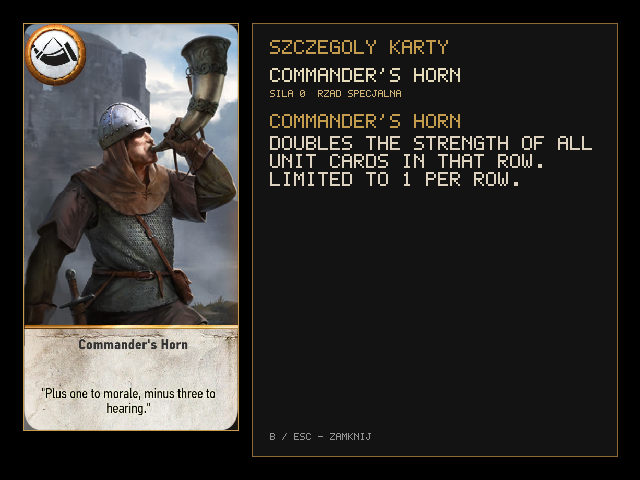
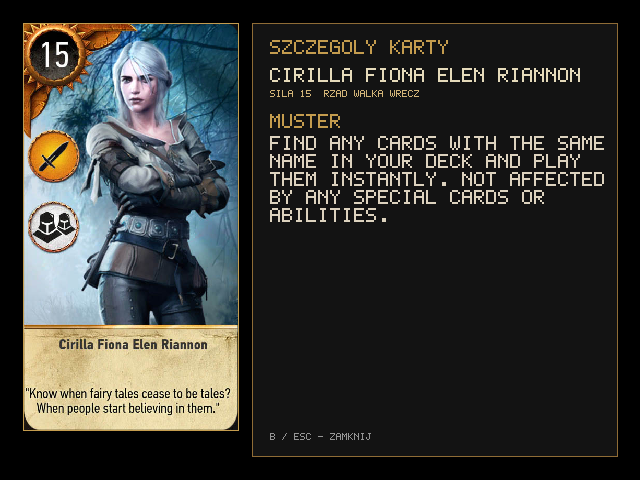
Improve card text and clear stale frames

diff --git a/src/main.cpp b/src/main.cpp
@@ -89,6 +89,11 @@ void narrowText(SDL_Renderer* r,int x,int y,const std::string& value,Color c,int
 }
 int textWidth(const std::string& s,int scale=1) { return static_cast<int>(ascii(s).size())*6*scale; }
 std::string shortName(std::string s,int n) { if(static_cast<int>(ascii(s).size())>n) s=ascii(s).substr(0,n); return ascii(s); }
+void centeredTextInBox(SDL_Renderer* r,int x,int y,int width,int height,const std::string& value,Color c,int scale=1) {
+  const int visibleWidth=std::max(0,(static_cast<int>(ascii(value).size())*6-1)*scale);
+  const int visibleHeight=7*scale;
+  text(r,x+std::max(0,(width-visibleWidth)/2),y+std::max(0,(height-visibleHeight)/2),value,c,scale);
+}
 void tallTextInBox(SDL_Renderer* r,int x,int y,int width,int height,const std::string& value,Color c,bool shadow=false) {
   const std::string s=ascii(value);
   if(s.empty())return;
@@ -412,8 +417,21 @@ void drawSourceCard(SDL_Renderer* r,const App& a,int x,int y,const gwent::Card& 
   if(card.hero)powerIcon="hero";
   else if(!card.abilities.empty()&&(card.kind==gwent::Kind::Weather||card.kind==gwent::Kind::ClearWeather||card.kind==gwent::Kind::Scorch||card.kind==gwent::Kind::CommanderHorn||card.kind==gwent::Kind::Mardroeme||card.kind==gwent::Kind::Decoy))powerIcon=card.abilities.front();
   if(powerIcon.rfind("scorch",0)==0)powerIcon="scorch";
-  drawImage(r,a,"img/icons/power_"+powerIcon+".png",x-1,y-2,20,21);
-  if(card.kind==gwent::Kind::Unit||card.kind==gwent::Kind::Leader)text(r,x+2,y+2,std::to_string(card.power),card.hero?paper:ink,1);
+  drawImage(r,a,"img/icons/power_"+powerIcon+".png",x-1,y-2,24,25);
+  if(card.kind==gwent::Kind::Unit||card.kind==gwent::Kind::Leader) {
+    const std::string power=std::to_string(card.power);
+    if(card.hero) {
+      const int scale=power.size()>1?1:2;
+      centeredTextInBox(r,x-1,y-2,24,25,power,paper,scale);
+    } else {
+      const int advance=std::min(6,12/static_cast<int>(power.size()));
+      const int numberX=x+1+(12-advance*static_cast<int>(power.size()))/2;
+      // Normal medallions are only about 12 px wide at this render scale.
+      // Fit two digit strengths inside that inner circle and center them.
+      narrowText(r,numberX,y+3,power,Color{28,21,13,220},advance);
+      narrowText(r,numberX,y+2,power,ink,advance);
+    }
+  }
   if(card.row!=gwent::Row::None) {
     const char* rowIcon=card.agile?"agile":card.row==gwent::Row::Ranged?"ranged":card.row==gwent::Row::Siege?"siege":"close";
     drawImage(r,a,"img/icons/card_row_"+std::string(rowIcon)+".png",x+18,y+32,9,9);
@@ -466,9 +484,9 @@ void drawCardPreview(SDL_Renderer* r,const App& a,const gwent::Card& card) {
   const std::string& title=gwent::referenceCardAbilityTitle(card.referenceIndex);
   const std::string& description=gwent::referenceCardDescription(card.referenceIndex);
   if(title.empty()&&description.empty())return;
-  box(r,435,276,186,50,Color{20,20,20,242});
+  box(r,435,276,186,80,Color{20,20,20,242});
   box(r,435,276,186,1,Color{255,255,255,87});
-  box(r,435,325,186,1,Color{255,255,255,87});
+  box(r,435,355,186,1,Color{255,255,255,87});
   std::string icon;
   if(card.kind!=gwent::Kind::Leader&&!card.abilities.empty()&&
      !(card.hero&&card.abilities.size()==1&&card.abilities.front()=="hero")) {
@@ -478,11 +496,26 @@ void drawCardPreview(SDL_Renderer* r,const App& a,const gwent::Card& card) {
     if(icon.rfind("scorch",0)==0)icon="scorch";
     if(icon=="hero")icon.clear();
   } else if(card.agile)icon="agile";
-  if(!icon.empty())drawImage(r,a,"img/icons/card_ability_"+icon+".png",441,282,12,12);
+  if(!icon.empty())drawImage(r,a,"img/icons/card_ability_"+icon+".png",441,281,14,14);
   text(r,465,282,title,Color{210,180,120},1);
   const auto lines=wrapDetailText(description,29);
-  for(std::size_t i=0;i<std::min<std::size_t>(3,lines.size());++i)
-    text(r,444,295+static_cast<int>(i)*9,lines[i],Color{220,210,190},1);
+  for(std::size_t i=0;i<lines.size();++i) {
+    const auto& line=lines[i];
+    const auto drawTall=[&](int ox,int oy,Color c) {
+      color(r,c);
+      for(std::size_t n=0;n<line.size();++n) {
+        const auto it=font().find(line[n]);const Glyph g=it==font().end()?font().at('?'):it->second;
+        for(int row=0;row<7;++row)for(int col=0;col<5;++col)if(g[row]&(1u<<(4-col))) {
+          const int top=(row*3)/2,bottom=((row+1)*3)/2;
+          const int renderedWidth=static_cast<int>(line.size())*6-1;
+          const int startX=435+(186-renderedWidth)/2;
+          SDL_Rect p{startX+static_cast<int>(n)*6+col+ox,289+static_cast<int>(i)*11+top+oy,1,bottom-top};SDL_RenderFillRect(r,&p);
+        }
+      }
+    };
+    drawTall(1,1,Color{0,0,0,230});
+    drawTall(0,0,Color{235,223,198});
+  }
 }
 std::vector<std::string> wrapDetailText(const std::string& value,std::size_t limit) {
   std::vector<std::string> lines;
@@ -636,7 +669,7 @@ void drawDeckBuilder(SDL_Renderer* r,const App& a) {
       drawImage(r,a,"img/lg/"+gwent::referenceCardImage(card->referenceIndex),cx,cy,63,118);
       drawImage(r,a,"img/icons/preview_count.png",cx+45,cy+96,16,16);
       const auto countLabel=std::to_string(count);
-      text(r,cx+45+(16-textWidth(countLabel))/2,cy+100,countLabel,Color{95,73,35},1);
+      centeredTextInBox(r,cx+45,cy+96,16,16,countLabel,Color{95,73,35},1);
       if(pane==a.editorPane&&i==cursor)frame(r,cx-2,cy-2,67,122,paper);
     }
     const int trackX=x+210;
@@ -711,8 +744,8 @@ void drawMatch(SDL_Renderer* r,const App& a) {
     if(leading)drawImage(r,a,"img/icons/icon_high_score.png",131,statsY+4,47,41);
     drawImage(r,a,"img/icons/score_total_"+std::string(owner==0?"me":"op")+".png",scoreX,scoreY,scoreSize,scoreSize);
     const std::string score=std::to_string(player.score);
-    const int scale=score.size()>=3?1:2;
-    text(r,scoreX+(scoreSize-textWidth(score,scale))/2,scoreY+(scoreSize-7*scale)/2,score,ink,scale);
+    const int scale=score.size()>=2?1:2;
+    centeredTextInBox(r,scoreX,scoreY,scoreSize,scoreSize,score,ink,scale);
   };
   drawSide(op,1);drawSide(me,0);
   drawImage(r,a,"img/icons/icon_leader_active.png",79,43,13,13);
@@ -733,7 +766,7 @@ void drawMatch(SDL_Renderer* r,const App& a) {
     if(grave&&!pile.empty())drawImage(r,a,"img/sm/"+gwent::referenceCardImage(pile.back().referenceIndex),x,y,28,43);
     else drawImage(r,a,"img/icons/deck_back_"+std::string(factionKey(a.game.players[owner].faction))+".jpg",x,y,28,43);
     const std::string count=std::to_string(pile.size());
-    text(r,x+(28-textWidth(count))/2,y+31,count,paper,1);
+    centeredTextInBox(r,x,y+29,28,13,count,paper,1);
   };
   drawPile(1,true,23);drawPile(1,false,23);drawPile(0,true,275);drawPile(0,false,275);
   box(r,107,295,34,15,Color{20,20,20,230});frame(r,107,295,34,15,Color{143,108,54});text(r,112,299,"PASS",paper,1);
@@ -1018,18 +1051,29 @@ int main(int argc,char** argv) {
     SDL_free(directory);
   }
   if(argc>1 && std::string(argv[1])=="--smoke-test") {
+    const auto clearFrame=[&](){SDL_SetRenderDrawColor(renderer,0,0,0,255);SDL_RenderClear(renderer);};
     const auto saveFrame=[&](const char* path){
       SDL_Surface* surface=SDL_CreateRGBSurfaceWithFormat(0,W,H,32,SDL_PIXELFORMAT_ARGB8888);
       if(!surface)return false;
       const bool okay=SDL_RenderReadPixels(renderer,nullptr,SDL_PIXELFORMAT_ARGB8888,surface->pixels,surface->pitch)==0&&SDL_SaveBMP(surface,path)==0;
       SDL_FreeSurface(surface);return okay;
     };
+    clearFrame();
     app.screen=Screen::DeckBuilder;drawDeckBuilder(renderer,app);SDL_RenderPresent(renderer);
     if(argc>3&&!saveFrame(argv[3])) { app.audio.shutdown();SDL_DestroyRenderer(renderer);SDL_DestroyWindow(window);SDL_Quit();return 4; }
-    if(argc>4) { app.cardDetailsOpen=true;drawDeckBuilder(renderer,app);SDL_RenderPresent(renderer);if(!saveFrame(argv[4])) { app.audio.shutdown();SDL_DestroyRenderer(renderer);SDL_DestroyWindow(window);SDL_Quit();return 4; }app.cardDetailsOpen=false; }
+    if(argc>4) {
+      clearFrame();
+      const auto& catalog=gwent::referenceCardCatalog();
+      const auto ciri=std::find_if(catalog.begin(),catalog.end(),[](const gwent::Card& card){return card.name=="Cirilla Fiona Elen Riannon";});
+      if(ciri!=catalog.end())drawCardDetails(renderer,app,*ciri);
+      else { app.cardDetailsOpen=true;drawDeckBuilder(renderer,app);app.cardDetailsOpen=false; }
+      SDL_RenderPresent(renderer);
+      if(!saveFrame(argv[4])) { app.audio.shutdown();SDL_DestroyRenderer(renderer);SDL_DestroyWindow(window);SDL_Quit();return 4; }
+    }
     startMatch(app);
     gwent::replaceMulliganCards(app.game,0,{}); gwent::replaceMulliganCards(app.game,1,gwent::chooseAiMulligan(app.game,1));
     app.game.phase=gwent::Phase::PlayerTurn;app.game.currentPlayer=0;
+    clearFrame();
     drawMatch(renderer,app);
     if(argc>2&&!saveFrame(argv[2])) { app.audio.shutdown();SDL_DestroyRenderer(renderer);SDL_DestroyWindow(window);SDL_Quit();return 4; }
     if(argc>5) {
@@ -1043,7 +1087,7 @@ int main(int argc,char** argv) {
       if(!gwent::playCard(app.game,0,card.id,row)) { app.audio.shutdown();SDL_DestroyRenderer(renderer);SDL_DestroyWindow(window);SDL_Quit();return 5; }
       animatePlayedCard(app,card,0,index,before);
       app.cardFlight.startedAt=SDL_GetTicks()>250?SDL_GetTicks()-250:0;
-      drawMatch(renderer,app);SDL_RenderPresent(renderer);
+      clearFrame();drawMatch(renderer,app);SDL_RenderPresent(renderer);
       if(!saveFrame(argv[5])) { app.audio.shutdown();SDL_DestroyRenderer(renderer);SDL_DestroyWindow(window);SDL_Quit();return 4; }
     }
     SDL_RenderPresent(renderer);
@@ -1085,6 +1129,7 @@ int main(int argc,char** argv) {
       else if(app.game.phase==gwent::Phase::MatchResult)app.audio.play(app.game.matchWinner==0?"game_win":"game_lose");
       observedPhase=app.game.phase;
     }
+    SDL_SetRenderDrawColor(renderer,0,0,0,255);SDL_RenderClear(renderer);
     if(app.screen==Screen::Title)drawTitle(renderer,app);
     else if(app.screen==Screen::DeckSelect)drawDeckSelect(renderer,app);
     else if(app.screen==Screen::DeckBuilder)drawDeckBuilder(renderer,app);

diff --git a/PROGRESS.md b/PROGRESS.md
@@ -46,6 +46,7 @@ Docelowa gra to wyłącznie Gwint jako minigra w Wiedźminie 3: Wild Hunt, z zaw
 - [~] Dodano format talii użytkownika `.gwd` i podłączono go do SDL: trzy sloty, edycja puli frakcji/neutrali, lidera i kopii, walidacja, zapis atomowy z sumą kontrolną oraz użycie talii przy starcie meczu. Silnik testuje round-trip i odrzucanie uszkodzeń. CI #43717386389 zbudował frontend, zaliczył CTest i wyrenderował ekrany edytora i meczu; brakuje zmiany nazwy talii, automatycznej QA sekwencji przycisków i testu na urządzeniu.
 - [~] Edytor talii jest wstępnie podłączony w PL/EN; pełne PL/EN całego UI, tutorial i ustawienia nadal do zrobienia.
 - [~] Dodano tryb inspekcji zaznaczonej karty (`I`/przytrzymanie SELECT przez 500 ms) z powiększoną oryginalną grafiką i większym opisem. To ułatwienie odczytu dla 640×480; nie zastępuje pełnej korekty typografii, wyrównania liczb, geometrii wszystkich okien ani animacji źródłowych.
+- [~] Poprawiono czytelność inspektora: smoke pokazuje pełnowymiarową Cirillę z widocznym cytatem na karcie oraz pełnym opisem Muster obok. W zwykłym podglądzie opis nie jest już obcinany do trzech wierszy; liczby mocy są dopasowane do małych medalionów, wyniki wycentrowane, a ekran jest czyszczony między klatkami, żeby nie pozostawały obrazy z poprzedniego menu. Lokalny build SDL2, CTest 2/2 i smoke działają; test fizyczny nadal otwarty.
 - [~] Przeniesiono podstawowy lot zagrywanej karty z ręki do rzędu/pogody w 500 ms dla gracza i AI. Audyt CSS/JS wskazał też kaskadowe przesunięcia karuzeli i przejścia/fade; te animacje oraz zmiany układu są nadal niezaimplementowane.
 - [~] Przypięte grafiki kart, plansza, ikony SVG i SFX z repo są w `assets/gwent-classic/`; sześć SVG ma rastrowe odpowiedniki PNG dla SDL. Dodano dekodowanie/odtwarzanie wszystkich 35 referencyjnych MP3 przez SDL Audio i `dr_mp3`, z odgłosami menu, nawigacji, kart, rund i pasowania; CI dekoduje cały zestaw. Muzyki w repo wzorcowym nie ma; jej odtworzenie, ustawienia trwałe i test audio na Miyoo nadal są otwarte.
 - [x] Zgodność pogody: ponowne zagranie już aktywnej karty pogodowej odrzuca duplikat na cmentarz właściciela bez ponownego aktywowania efektu. Dodano regresję dla duplikatu Biting Frost i późniejszego Czystego Nieba; lokalne CTest 2/2 oraz dekodowanie 35 MP3 przechodzą.

diff --git a/TEST_REPORT.md b/TEST_REPORT.md
@@ -47,3 +47,7 @@ Mały panel opisu przeniesiono z jednopikselowego, sztucznie ściśniętego teks
 ## Regresja duplikatów pogody
 
 Porównanie z `Weather.addCard` w przypiętym `gwent.js` wykazało, że aktywny może pozostać tylko jeden egzemplarz danego rodzaju karty pogodowej; kolejny trafia do cmentarza bez zmiany aktywnego efektu. `applyWeather` teraz zachowuje tę regułę, a test silnika zagrywa Biting Frost po obu stronach, potwierdza pojedynczy efekt i odrzucenie drugiej karty, a następnie sprawdza usunięcie pogody przez Czyste Niebo. Build SDL2 w Ubuntu 24.04, CTest (2/2) i dekodowanie wszystkich 35 SFX zakończyły się powodzeniem. Zmiana nie stanowi potwierdzenia pełnej zgodności zasad ani testu Miyoo.
+
+## Korekta klatek i czytelności liczb/kart
+
+Oględziny smoke frame meczu ujawniły, że renderer nie czyścił bufora po edytorze talii; w dolnej części kadru pozostawała stara grafika karty. Dodano czyszczenie renderera w pętli gry i przed każdą klatką smoke. Dwucyfrowa siła mieści się teraz w power medallion, a wynik rundy jest wycentrowany. Panel opisu karty pokazuje pełny tekst (bez limitu trzech linii) w wyższej czcionce. Klatka inspektora została ustawiona na Cirillę, by sprawdzić długą nazwę, cytat w oryginalnej ilustracji i pełny opis Muster. Build SDL2 Ubuntu 24.04, CTest (2/2) i czteroklatkowy smoke test zakończone powodzeniem; kadry sprawdzono wizualnie. Nadal wymagane są test na Miyoo i porównanie całego UI ze źródłem.
